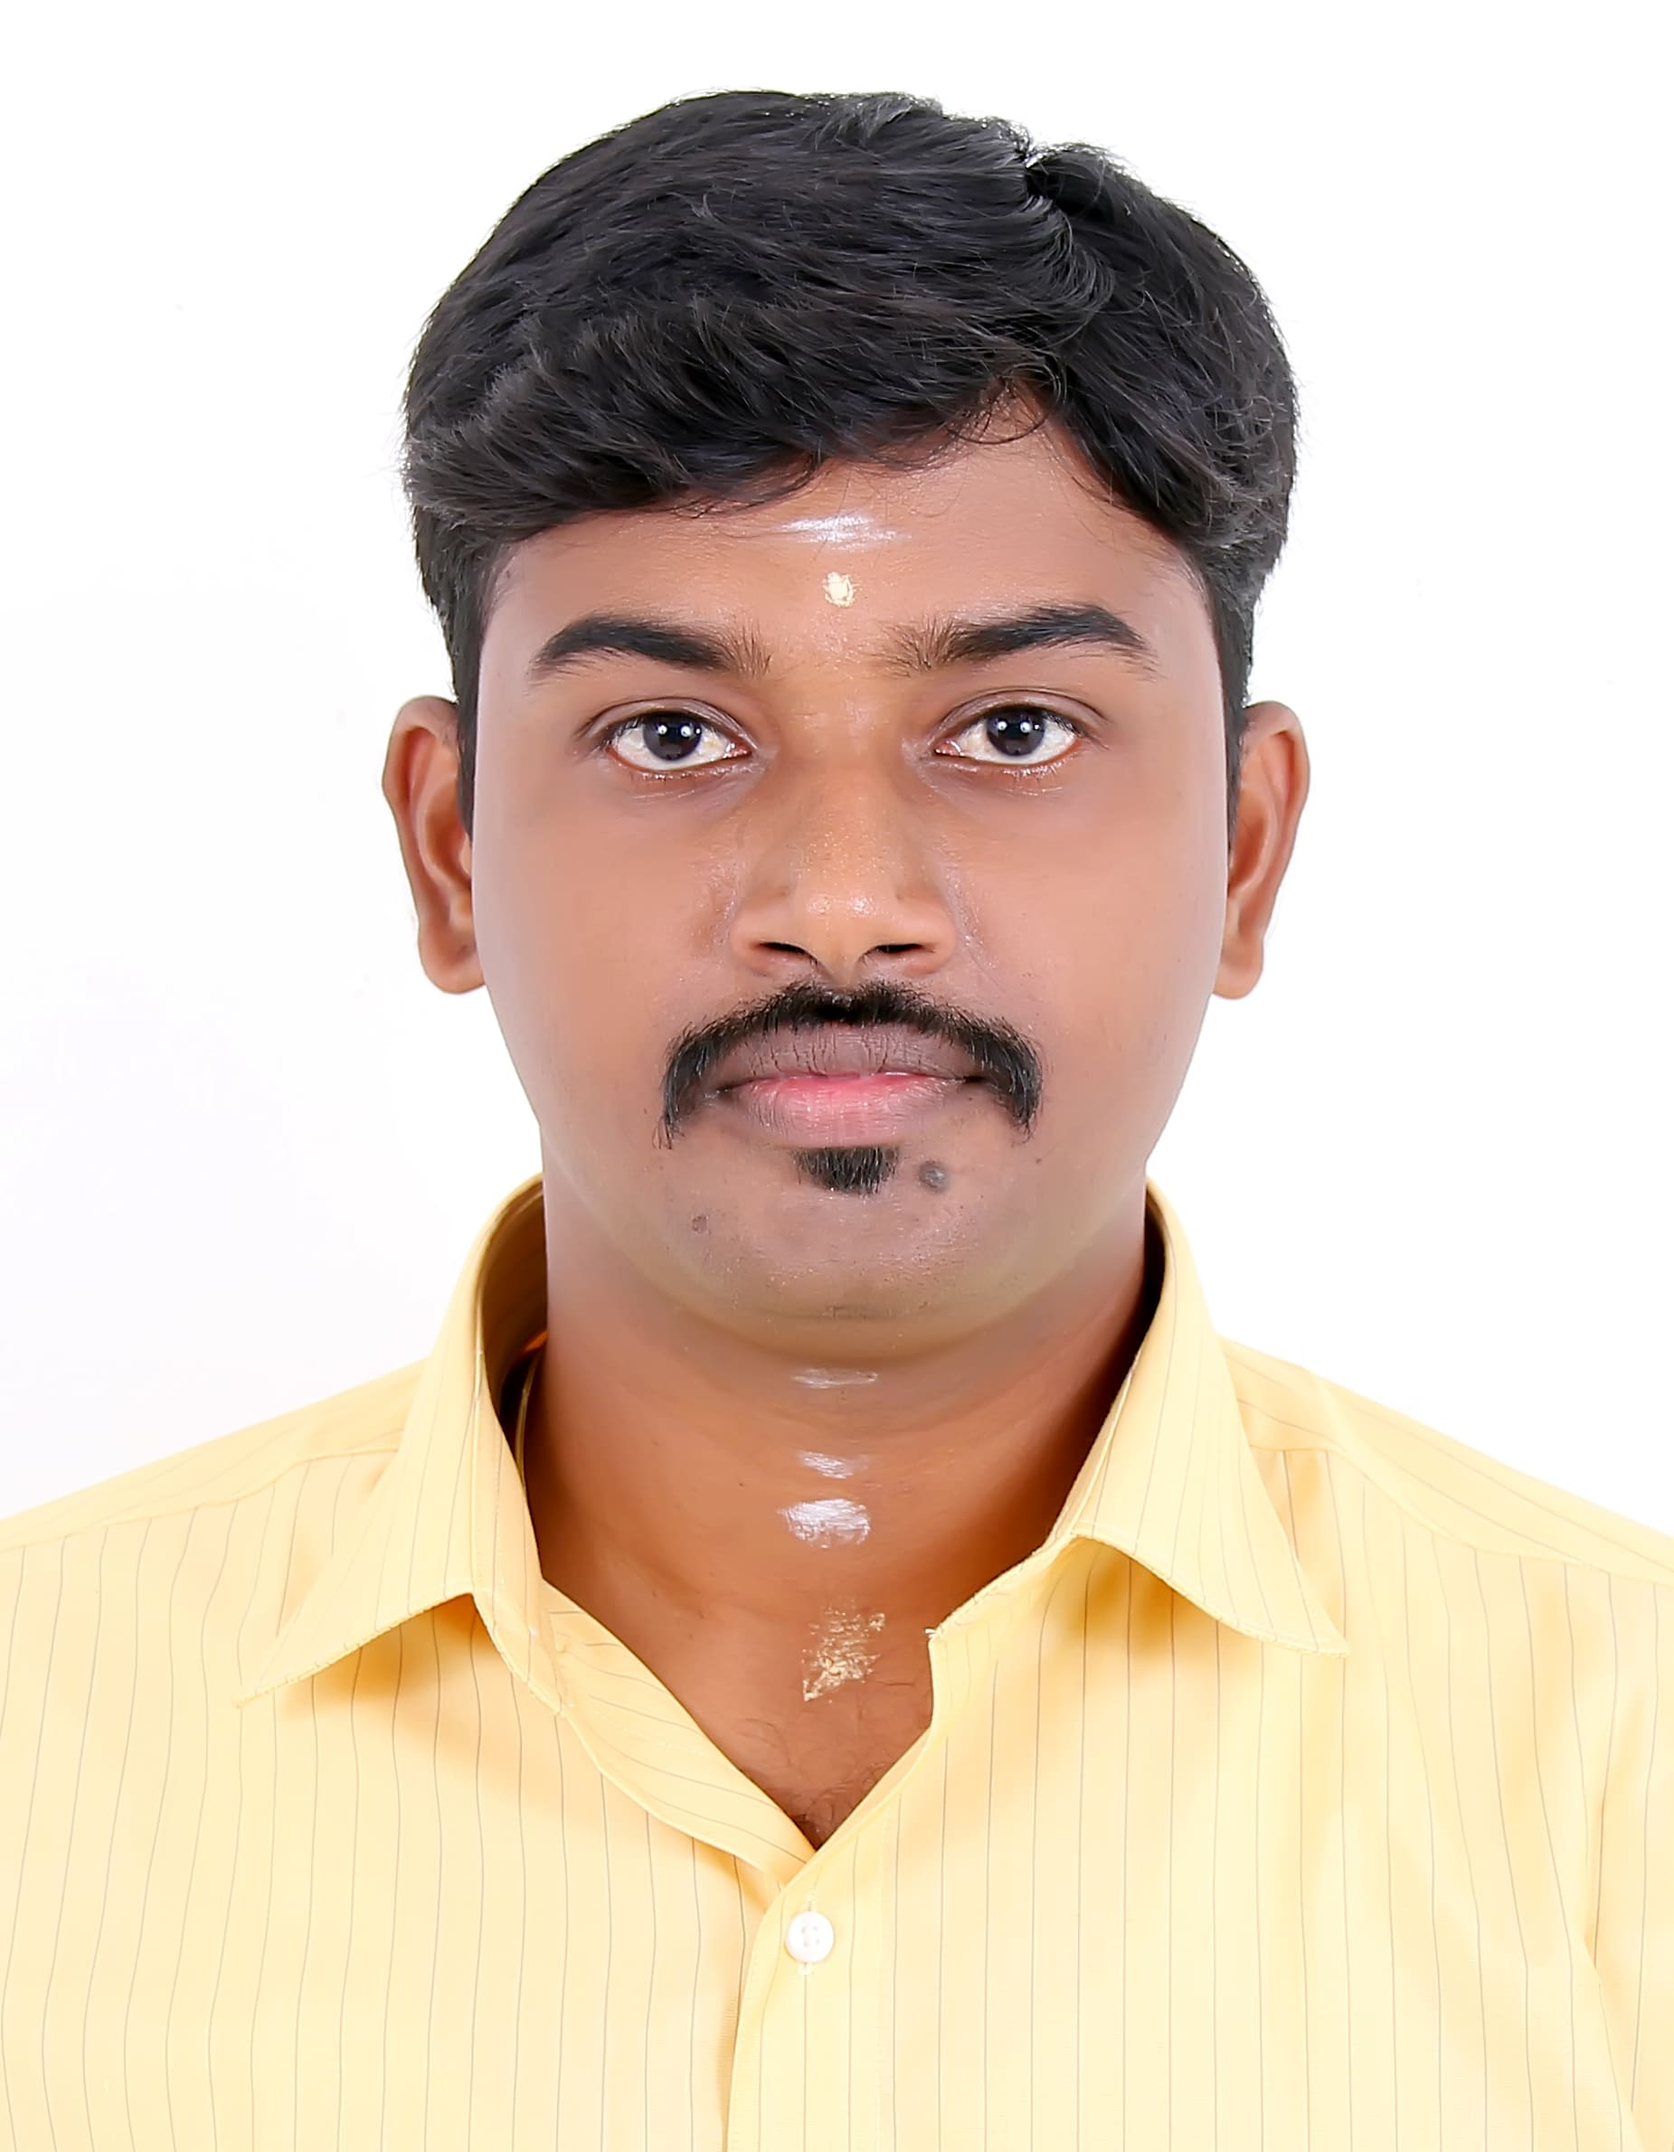
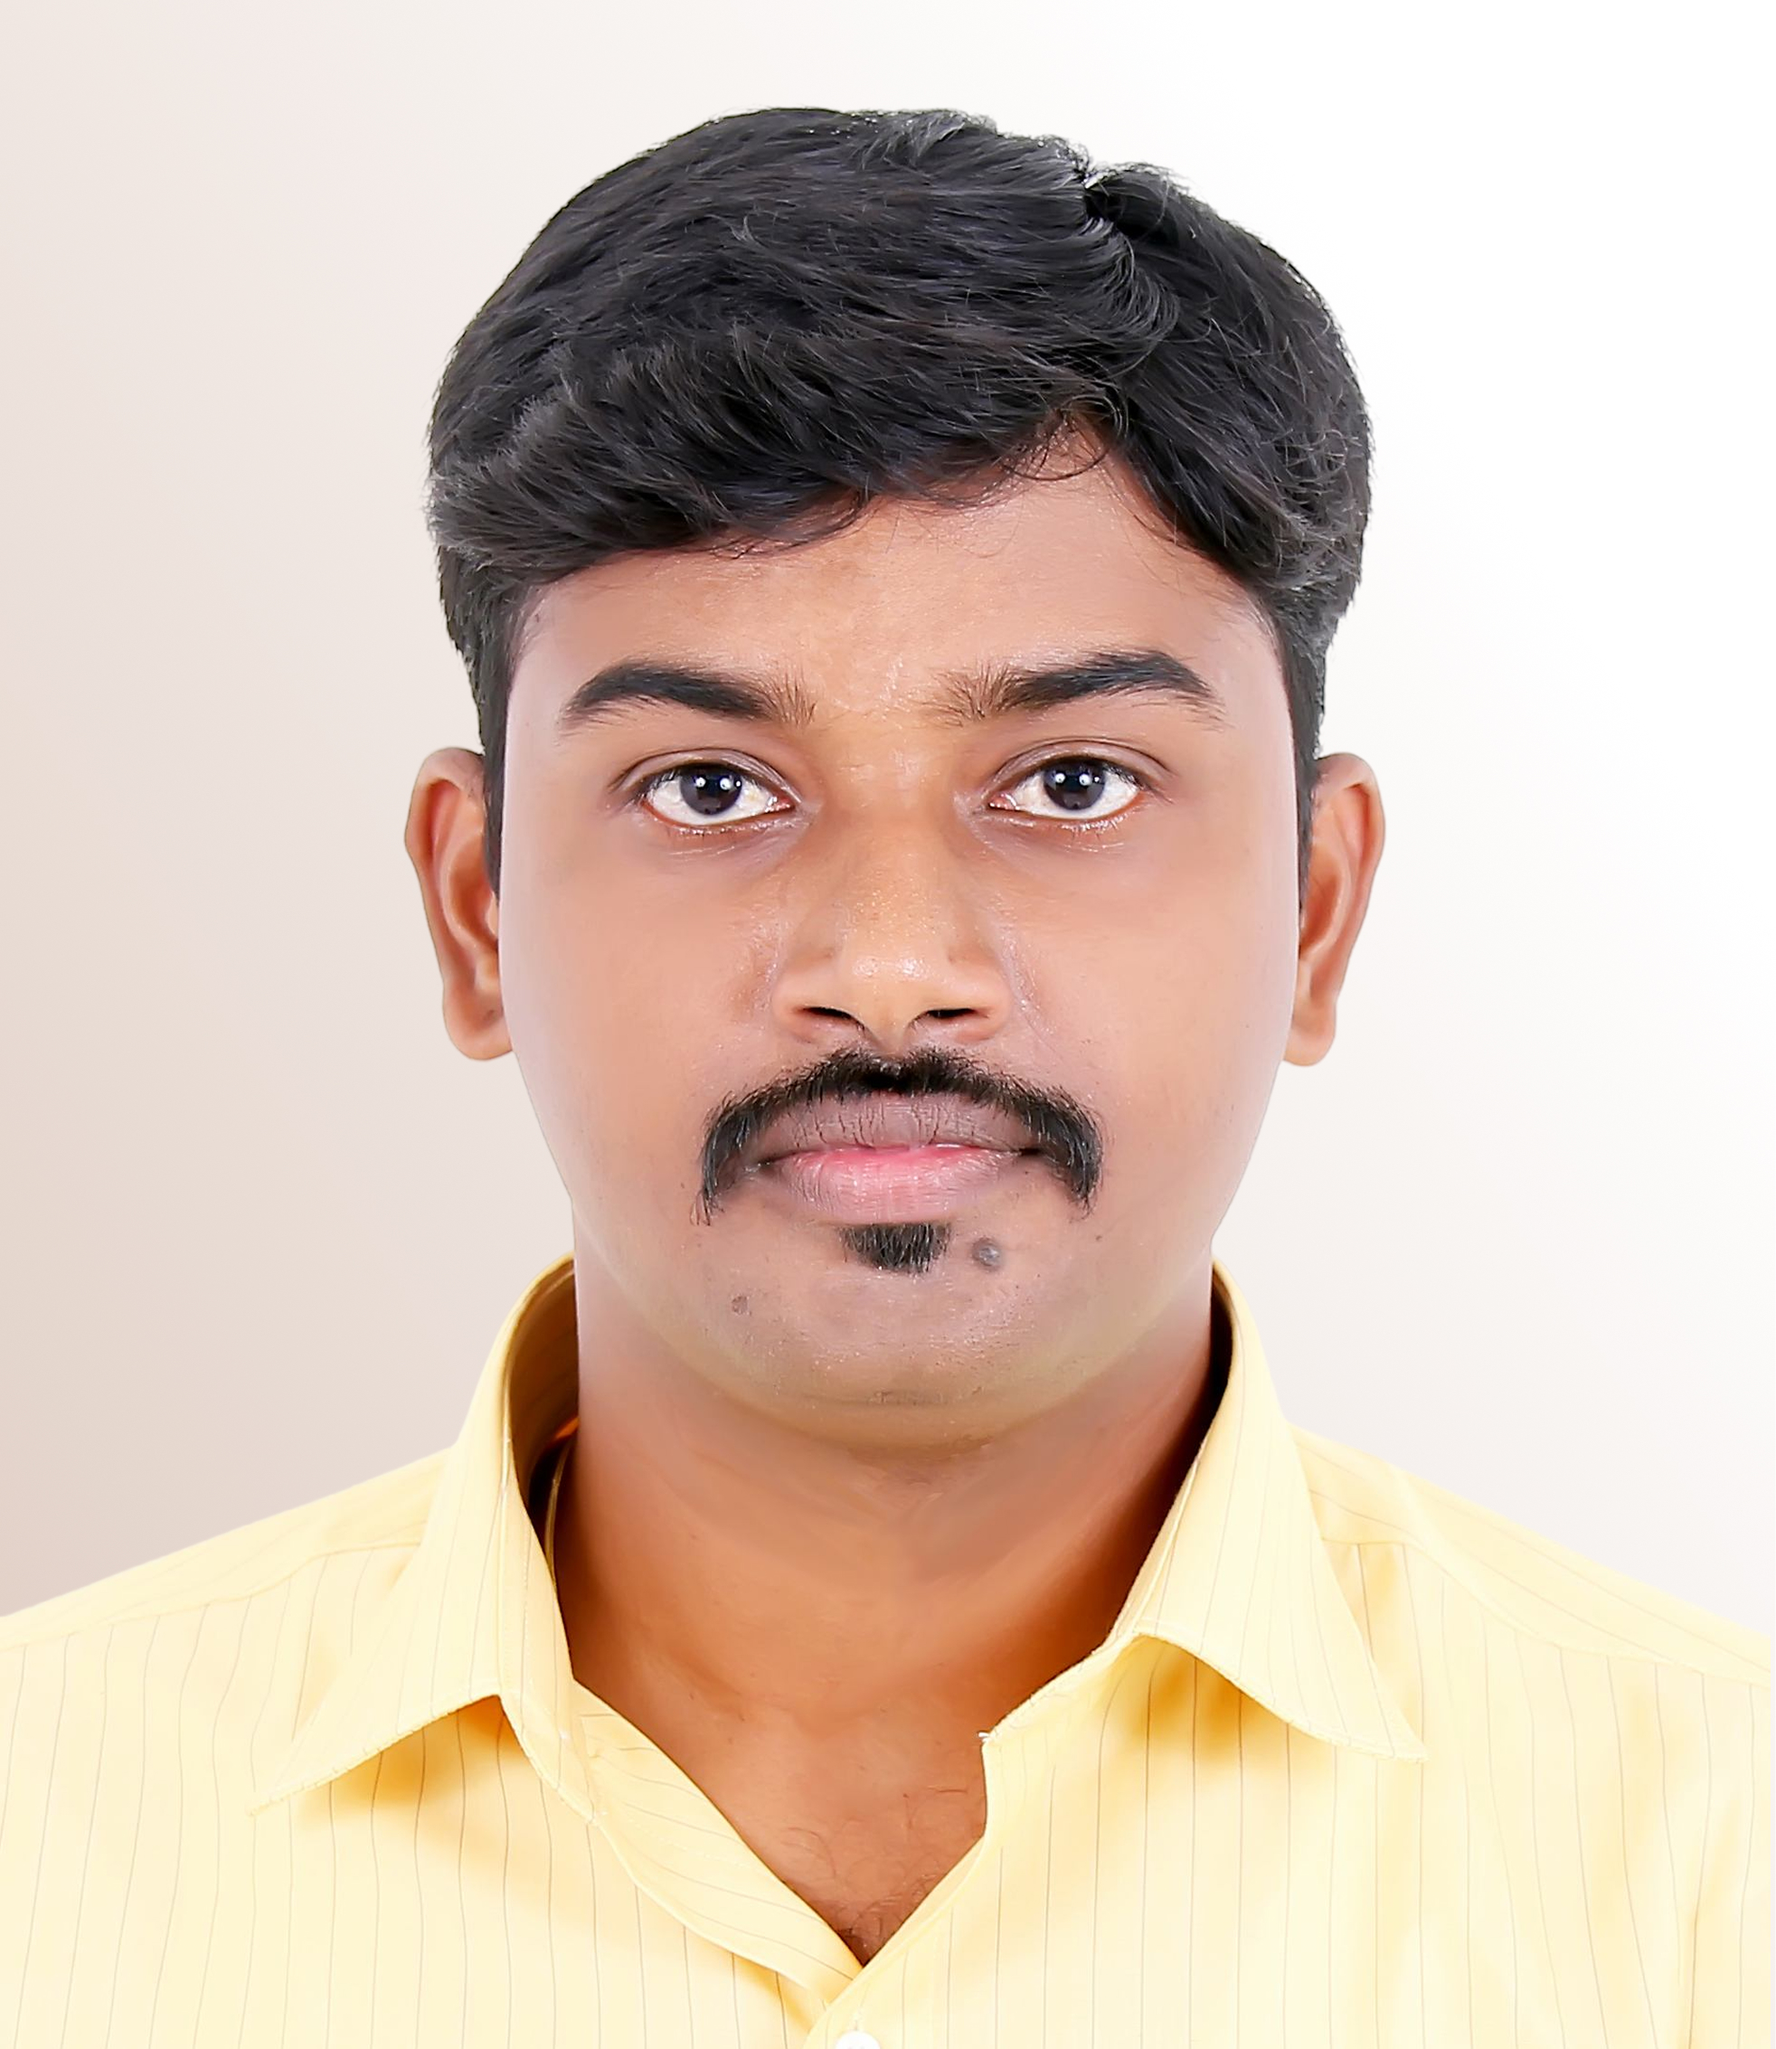
profileimg
chnage img

diff --git a/index.html b/index.html
@@ -503,6 +503,7 @@
             <a href="https://www.tiiservices.com/" target="_blank">TIIServices</a> 
             <a href="https://skill-lync.com/" target="_blank">Skill-Lync</a> 
             <a href="https://skill-lync.com/corporate-training/" target="_blank">Skill-Lync Corporate Training</a>
+            <a href="https://skill-lync.com/corporate-training/" target="_blank">Skill-Lync Corporate Training</a>
           </p>
       
         </div>
